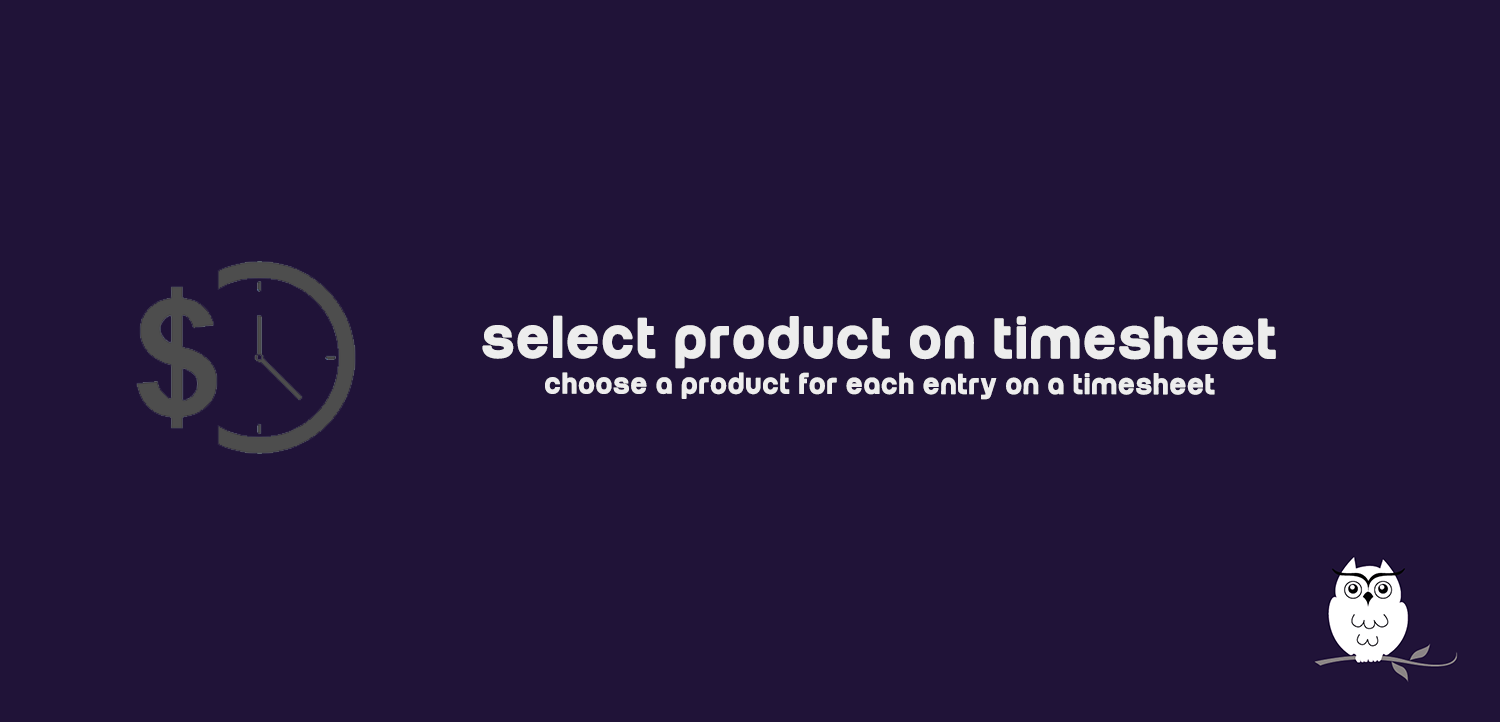
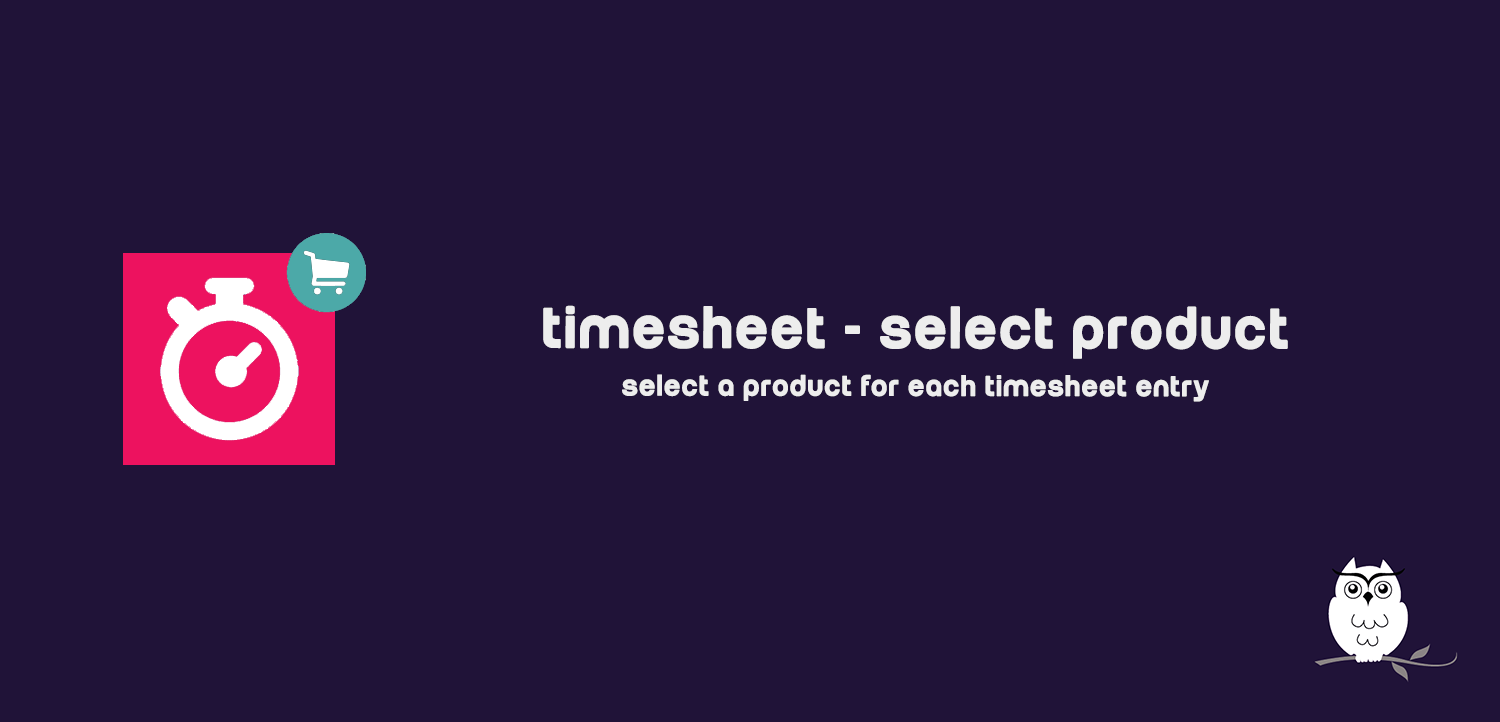
NIB-80-110: finished work logger description

Changed region(s): [[0.3067, 0.4266, 0.8587, 0.5485], [0.0613, 0.3047, 0.2453, 0.6704]]

diff --git a/hr_timesheet_work_log_wizard/static/description/index.html b/hr_timesheet_work_log_wizard/static/description/index.html
@@ -103,8 +103,8 @@
                 </div>
                 <div class="oe_span6" style="display: table;height: 300px;overflow: hidden;">
                     <div style="font-size: 15px;display: table-cell;vertical-align: middle;">
-                        <h2>Leaves in your timesheets</h2>
-                        <p>Display the employee's approved holidays directly in their timesheet!</p>
+                        <h2>Timesheet - Include leaves</h2>
+                        <p>Keep track on your leaves directly from your timesheet.</p>
                     </div>
                 </div>
             </div>
@@ -112,15 +112,49 @@
         <section class="oe_container oe_dark">
             <div class="oe_row oe_spaced">
                 <div class="oe_span6" style="display: table;height: 300px;overflow: hidden;">
-                    <div style="font-size: 15px;display: table-cell;vertical-align: middle;">
-                        <h2>HR Timesheet - Select product</h2>
-                        <p>Choose a product for each timesheet entry!</p>
+                    <div class="text-right" style="font-size: 15px;display: table-cell;vertical-align: middle;">
+                        <h2>Timesheet - Select product</h2>
+                        <p>Select a product for each timesheet entry.</p>
                     </div>
                 </div>
                 <div class="oe_span6" style="display: table;height: 300px;overflow: hidden;">
                     <div style="display: table-cell;vertical-align: middle;">
                         <a href="https://apps.openerp.com/apps/modules/9.0/hr_timesheet_select_product">
                             <img class="img img-responsive" style="border:1px solid lightgrey; padding: 5px;box-shadow: 4px 4px 8px lightgrey;" src="hr_timesheet_select_product_cover.png"/>
+                        </a>
+                    </div>
+                </div>
+            </div>
+        </section>
+        <section class="oe_container">
+            <div class="oe_row oe_spaced">
+                <div class="oe_span6" style="display: table;height: 300px;overflow: hidden;">
+                    <div style="display: table-cell;vertical-align: middle;">
+                        <a href="https://apps.openerp.com/apps/modules/9.0/hr_timesheet_select_task">
+                            <img class="img img-responsive" style="border:1px solid lightgrey; padding: 5px;box-shadow: 4px 4px 8px lightgrey;" src="hr_timesheet_task_cover.png"/>
+                        </a>
+                    </div>
+                </div>
+                <div class="oe_span6" style="display: table;height: 300px;overflow: hidden;">
+                    <div style="font-size: 15px;display: table-cell;vertical-align: middle;">
+                        <h2>Timesheet - Select task</h2>
+                        <p>Select a task for each timesheet entry.</p>
+                    </div>
+                </div>
+            </div>
+        </section>
+        <section class="oe_container oe_dark">
+            <div class="oe_row oe_spaced">
+                <div class="oe_span6" style="display: table;height: 300px;overflow: hidden;">
+                    <div class="text-right" style="font-size: 15px;display: table-cell;vertical-align: middle;">
+                        <h2>Timesheet - Improved design</h2>
+                        <p>Profit from a user-friendlier timesheet.</p>
+                    </div>
+                </div>
+                <div class="oe_span6" style="display: table;height: 300px;overflow: hidden;">
+                    <div style="display: table-cell;vertical-align: middle;">
+                        <a href="https://apps.openerp.com/apps/modules/9.0/hr_timesheet_task_presentation">
+                            <img class="img img-responsive" style="border:1px solid lightgrey; padding: 5px;box-shadow: 4px 4px 8px lightgrey;" src="hr_timesheet_task_presentation_cover.png"/>
                         </a>
                     </div>
                 </div>

diff --git a/hr_timesheet_work_log_wizard/__openerp__.py b/hr_timesheet_work_log_wizard/__openerp__.py
@@ -6,14 +6,17 @@
 {
     'name': 'Timesheet - Work Logger',
     'category': 'HR',
-    'summary': 'Log work on timesheets with a wizard',
+    'summary': 'Makes logging time easy and efficient',
     'license': 'AGPL-3',
     'website': 'https://www.niboo.be',
     'version': '9.0.1.0.0',
     'description': '''
-Allows logging work efficiently on timesheets. The user launches the wizard from
-either within the timesheet or a task. There they can define project, task,
-product, description, date and hours.
+Add a wizard to simply log your work:
+- Direct access from timesheets and tasks: click on the Log Work button or directly on the desired timesheet table cell
+- Choose a task, and the corresponding project is automatically set
+- Makes it possible to specify a product for each entry
+- Forces user to specify which project they worked on
+- Makes user describe the work they have done
         ''',
     'author': 'Niboo',
     'depends': [

diff --git a/hr_timesheet_task_presentation/__openerp__.py b/hr_timesheet_task_presentation/__openerp__.py
@@ -32,7 +32,7 @@
 
     ],
     'images': [
-        'static/description/timesheet_cover.png',
+        'static/description/hr_timesheet_task_presentation_cover.png',
     ],
     'installable': True,
     'application': True,
